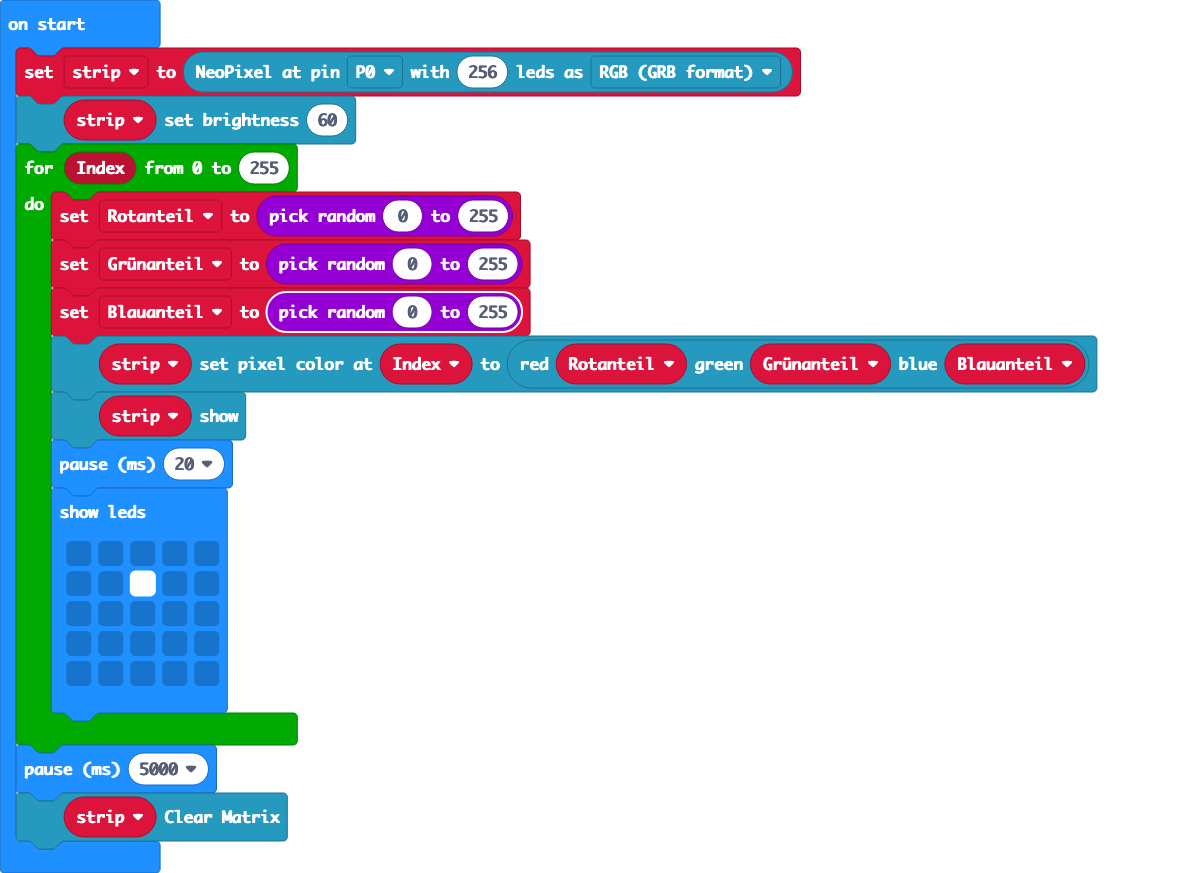
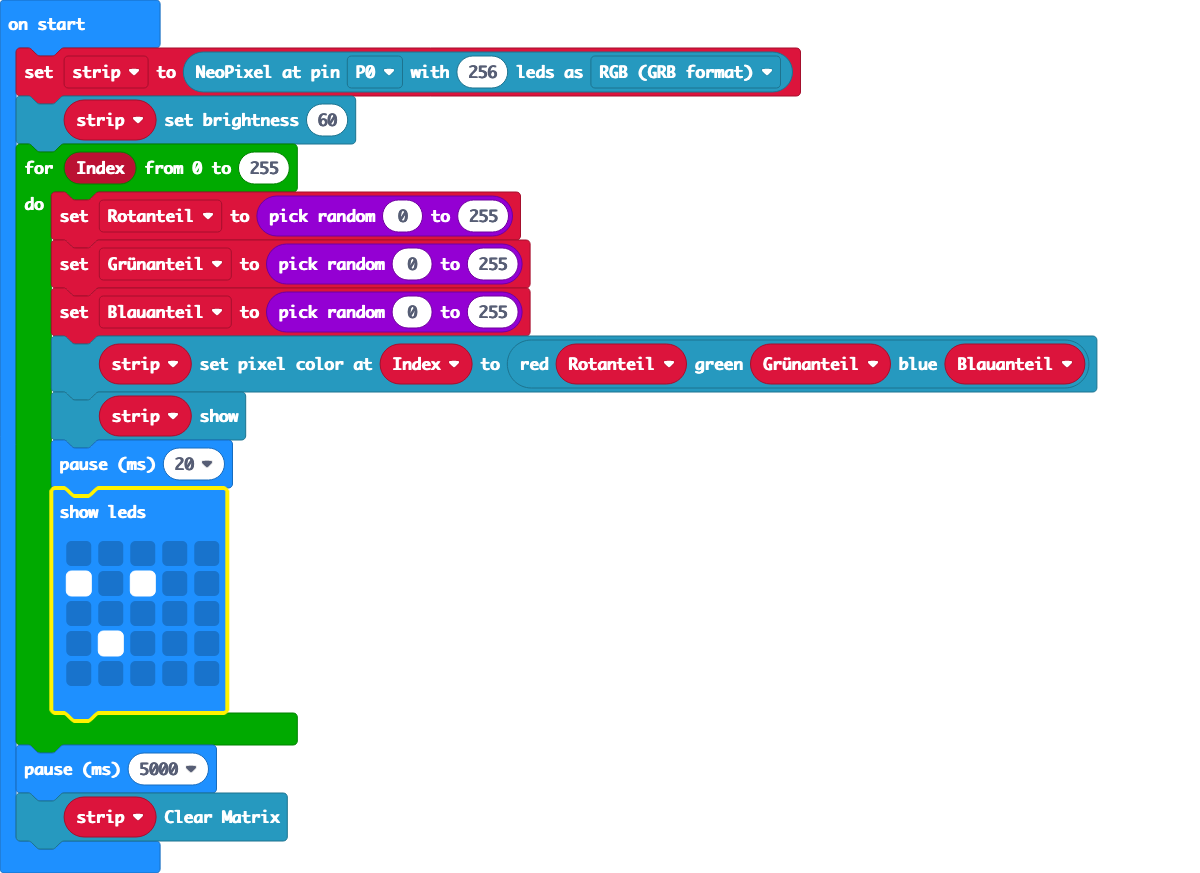
Update main.blocks, main.ts

Changed region(s): [[0.0308, 0.5567, 0.2158, 0.8351]]

diff --git a/main.ts b/main.ts
@@ -12,9 +12,9 @@ for (let Index = 0; Index <= 255; Index++) {
     basic.pause(20)
     basic.showLeds(`
         . . . . .
-        . . # . .
+        # . # . .
         . . . . .
-        . . . . .
+        . # . . .
         . . . . .
         `)
 }
